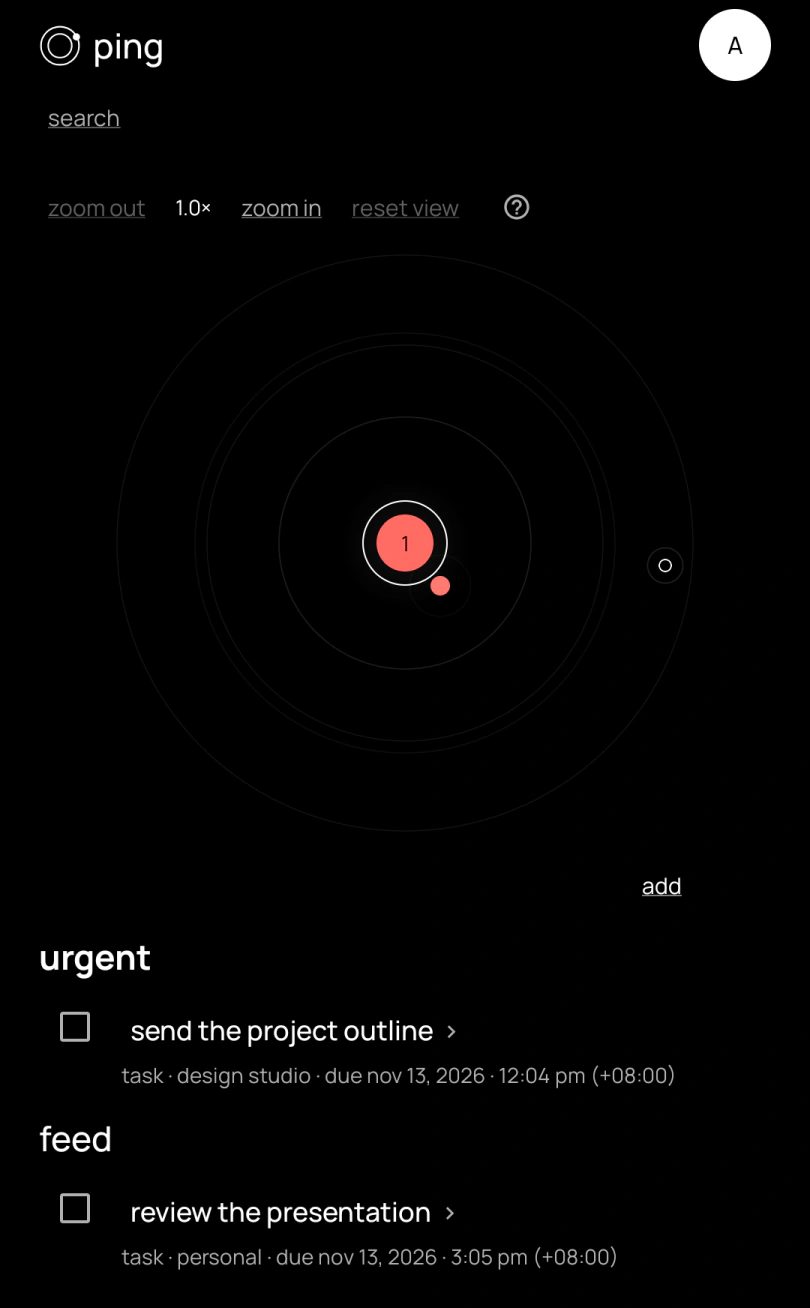
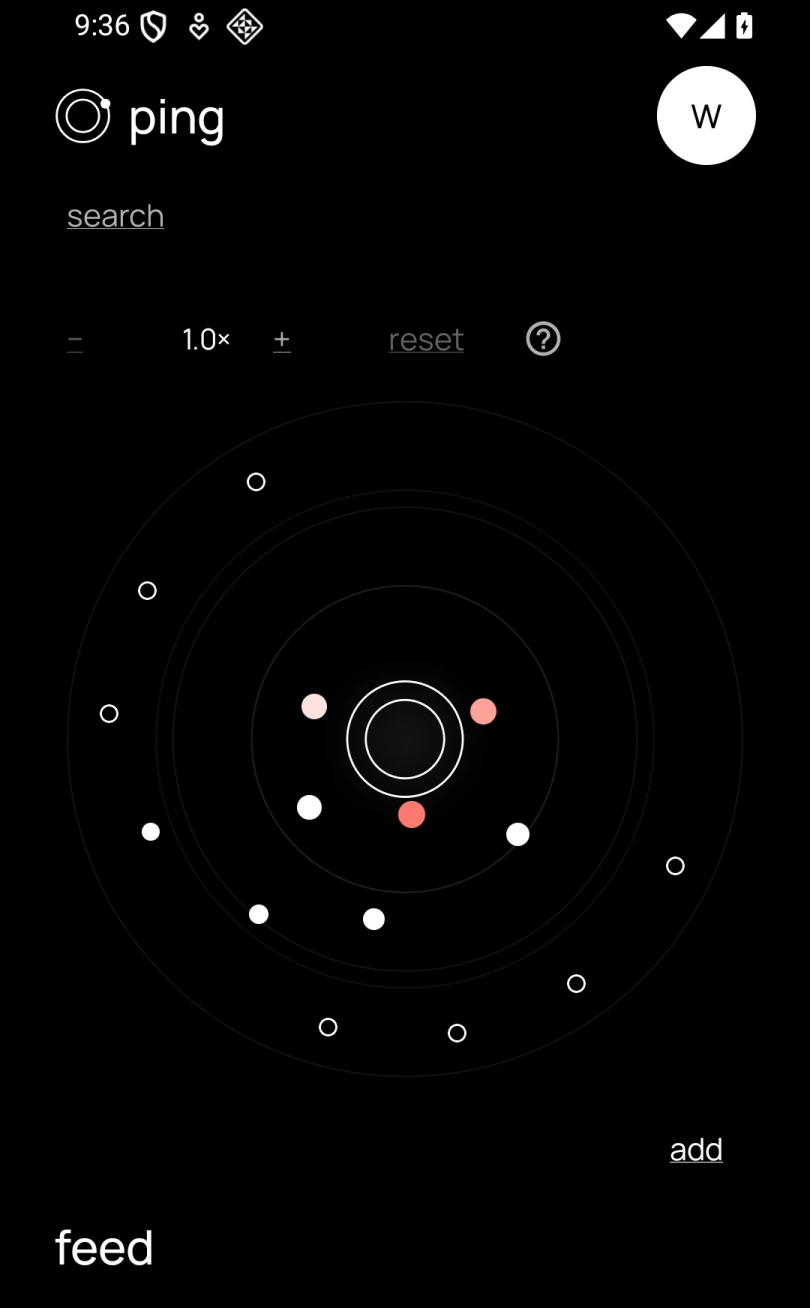
Update the Ping map and welcome screenshots

diff --git a/index.html b/index.html
@@ -820,11 +820,11 @@
         link: '/ping/',
         linkLabel: 'open ping',
         images: [
-          'PingSS/deadline-map.webp',
+          'PingSS/deadline-map.webp?v=13',
           'PingSS/home-screen-widget.webp',
           'PingSS/task-detail.webp',
           'PingSS/group-tasks.webp',
-          'PingSS/welcome.webp'
+          'PingSS/welcome.webp?v=13'
         ],
         detail: 'tasks move toward the center of the map as deadlines approach. keep personal reminders and shared work together, save changes offline, and put one item on your home screen with the widget.'
       },
